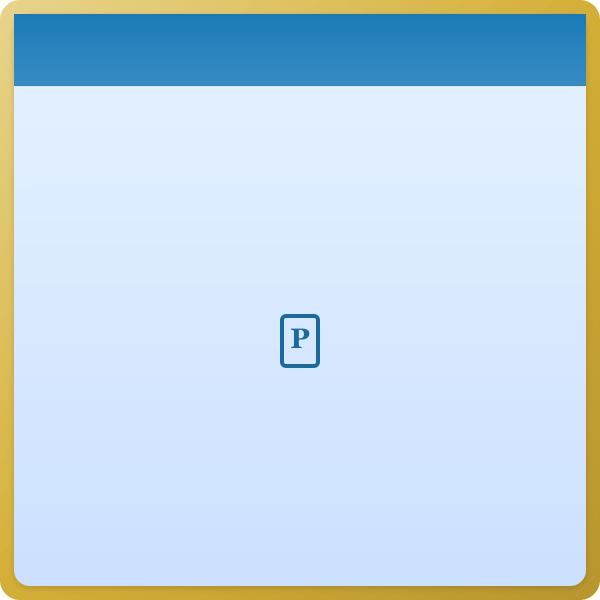
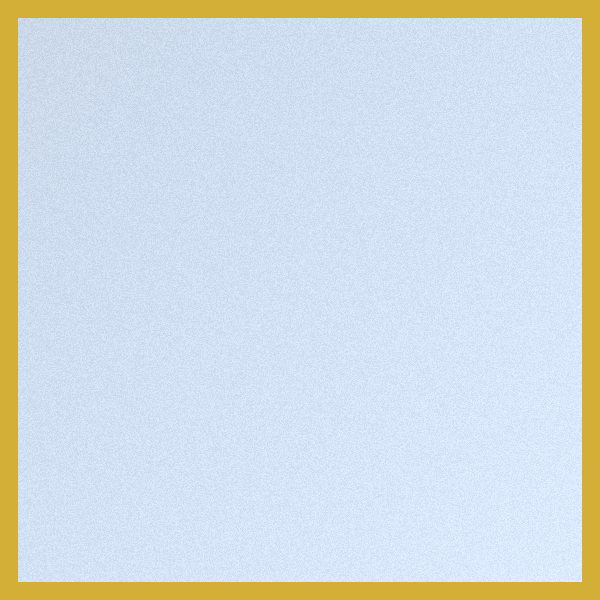
Cards from full photos: local pics/cards, download-images jpg, picsum, photo-like texture fallback

Changed region(s): [[0.0, 0.0, 1.0, 1.0], [0.45, 0.51, 0.54, 0.63]]

diff --git a/scripts/generate-cards.js b/scripts/generate-cards.js
@@ -1,8 +1,11 @@
 /**
- * Генерация красивых карточек клеток (градиенты, иконки, единый стиль).
- * Заменяет PNG в public/images/cards/.
+ * Генерация карточек из полноценных фото.
+ * 1) Локальные фото из pics/cards/{name}.jpg (или .png) — если есть.
+ * 2) Скачивание с picsum.photos по seed — если есть сеть.
+ * 3) Fallback: фото-подобная текстура (градиент + шум).
+ * Итог: каждая карточка — изображение 600×600 с золотой рамкой.
  * Запуск: node scripts/generate-cards.js
- * Требует: npm install sharp
+ * Требует: Node 18+ (fetch), npm install sharp
  */
 
 import sharp from 'sharp';
@@ -13,95 +16,142 @@ import { fileURLToPath } from 'url';
 const __dirname = path.dirname(fileURLToPath(import.meta.url));
 const ROOT = path.join(__dirname, '..');
 const CARDS = path.join(ROOT, 'public', 'images', 'cards');
+const PICS_CARDS = path.join(ROOT, 'pics', 'cards');
 
 const W = 600;
 const H = 600;
-const R = 16;
-const BORDER = 14;
-const STRIPE_H = 72;
+const BORDER = 18;
+const INNER = W - 2 * BORDER;
+const RADIUS = 12;
 
-/** Цвета: stripe (верх), fill1 (фон сверху), fill2 (фон снизу), icon (иконка) — для градиентов и контраста */
-const CARD_CONFIG = [
-  { name: 'go', stripe: '#1a6b6b', fill1: '#2d9d9d', fill2: '#1e7a7a', icon: '#fff' },
-  { name: 'street', stripe: '#8b6914', fill1: '#f8f0e4', fill2: '#ede0d0', icon: '#5c4a32' },
-  { name: 'chance', stripe: '#c44a3a', fill1: '#ffe4c0', fill2: '#ffd4a0', icon: '#8b3a2a' },
-  { name: 'community_chest', stripe: '#1a6bb3', fill1: '#e8f2ff', fill2: '#d0e4ff', icon: '#1a5a9e' },
-  { name: 'tax', stripe: '#b8860b', fill1: '#fffde8', fill2: '#fff4c4', icon: '#7a5a08' },
-  { name: 'railroad', stripe: '#2d2d2d', fill1: '#f5f4f2', fill2: '#e8e6e2', icon: '#333' },
-  { name: 'jail', stripe: '#5c3d1e', fill1: '#e8ddd0', fill2: '#d8c8b8', icon: '#3d2817' },
-  { name: 'utility', stripe: '#c9a82a', fill1: '#fffce8', fill2: '#fff4c4', icon: '#8b7312' },
-  { name: 'free_parking', stripe: '#1a7ab8', fill1: '#e6f2ff', fill2: '#cce0ff', icon: '#1a6aa0' },
-  { name: 'go_to_jail', stripe: '#a01830', fill1: '#ffe8e8', fill2: '#ffd0d0', icon: '#801020' },
-  { name: 'default', stripe: '#666', fill1: '#f0f0f0', fill2: '#e0e0e0', icon: '#555' },
+const CARD_NAMES = [
+  'go',
+  'street',
+  'chance',
+  'community_chest',
+  'tax',
+  'railroad',
+  'jail',
+  'utility',
+  'free_parking',
+  'go_to_jail',
+  'default',
 ];
 
-/** Простые иконки SVG (центр карточки): путь или группа, viewBox 0 0 100 100, масштаб под ~160px */
-const ICONS = {
-  go: '<circle cx="50" cy="50" r="42" fill="none" stroke="currentColor" stroke-width="6"/><text x="50" y="62" font-family="Georgia,serif" font-size="36" font-weight="bold" fill="currentColor" text-anchor="middle">GO</text>',
-  street: '<path d="M50 25 L75 55 L75 85 L25 85 L25 55 Z" fill="none" stroke="currentColor" stroke-width="5"/><rect x="42" y="55" width="16" height="30" fill="currentColor"/>',
-  chance: '<circle cx="50" cy="50" r="38" fill="none" stroke="currentColor" stroke-width="5"/><text x="50" y="68" font-family="Georgia,serif" font-size="48" font-weight="bold" fill="currentColor" text-anchor="middle">?</text>',
-  community_chest: '<rect x="20" y="45" width="60" height="40" rx="4" fill="none" stroke="currentColor" stroke-width="4"/><rect x="35" y="35" width="30" height="18" rx="2" fill="none" stroke="currentColor" stroke-width="3"/><line x1="35" y1="52" x2="65" y2="52" stroke="currentColor" stroke-width="2"/>',
-  tax: '<text x="50" y="68" font-family="Georgia,serif" font-size="42" font-weight="bold" fill="currentColor" text-anchor="middle">%</text><rect x="30" y="75" width="40" height="6" fill="currentColor"/>',
-  railroad: '<rect x="22" y="45" width="56" height="32" rx="4" fill="none" stroke="currentColor" stroke-width="4"/><circle cx="35" cy="72" r="8" fill="none" stroke="currentColor" stroke-width="3"/><circle cx="65" cy="72" r="8" fill="none" stroke="currentColor" stroke-width="3"/><rect x="35" y="38" width="30" height="14" fill="currentColor"/><polygon points="50,25 65,38 35,38" fill="currentColor"/>',
-  jail: '<rect x="25" y="35" width="50" height="45" rx="2" fill="none" stroke="currentColor" stroke-width="4"/><line x1="25" y1="48" x2="75" y2="48" stroke="currentColor" stroke-width="3"/><line x1="40" y1="35" x2="40" y2="80" stroke="currentColor" stroke-width="3"/><line x1="55" y1="35" x2="55" y2="80" stroke="currentColor" stroke-width="3"/><line x1="25" y1="62" x2="75" y2="62" stroke="currentColor" stroke-width="3"/>',
-  utility: '<path d="M55 20 L35 50 L50 50 L30 80 L55 48 L42 48 Z" fill="currentColor"/>',
-  free_parking: '<rect x="32" y="30" width="36" height="50" rx="4" fill="none" stroke="currentColor" stroke-width="4"/><text x="50" y="62" font-family="Georgia,serif" font-size="28" font-weight="bold" fill="currentColor" text-anchor="middle">P</text>',
-  go_to_jail: '<rect x="30" y="40" width="40" height="28" rx="3" fill="none" stroke="currentColor" stroke-width="3"/><circle cx="38" cy="54" r="5" fill="none" stroke="currentColor" stroke-width="2"/><circle cx="62" cy="54" r="5" fill="none" stroke="currentColor" stroke-width="2"/><path d="M30 52 L22 52 M70 52 L78 52" stroke="currentColor" stroke-width="2" stroke-linecap="round"/>',
-  default: '<rect x="30" y="30" width="40" height="40" rx="6" fill="none" stroke="currentColor" stroke-width="4"/>',
-};
+const PICSUM_BASE = 'https://picsum.photos/seed';
 
-function buildCardSvg(config) {
-  const { name, stripe, fill1, fill2, icon } = config;
-  const iconSvg = ICONS[name] || ICONS.default;
-  const innerW = W - 2 * BORDER;
-  const innerH = H - 2 * BORDER;
+async function fetchImage(url) {
+  const res = await fetch(url, {
+    redirect: 'follow',
+    headers: {
+      'User-Agent':
+        'Mozilla/5.0 (Windows NT 10.0; Win64; x64) AppleWebKit/537.36 (KHTML, like Gecko) Chrome/120.0.0.0 Safari/537.36',
+      Accept: 'image/*',
+    },
+  });
+  if (!res.ok) throw new Error(`${res.status}`);
+  return Buffer.from(await res.arrayBuffer());
+}
 
-  return `<svg xmlns="http://www.w3.org/2000/svg" width="${W}" height="${H}" viewBox="0 0 ${W} ${H}">
-  <defs>
-    <linearGradient id="bg-${name}" x1="0%" y1="0%" x2="0%" y2="100%">
-      <stop offset="0%" style="stop-color:${fill1}"/>
-      <stop offset="100%" style="stop-color:${fill2}"/>
-    </linearGradient>
-    <linearGradient id="stripe-${name}" x1="0%" y1="0%" x2="0%" y2="100%">
-      <stop offset="0%" style="stop-color:${stripe};stop-opacity:1"/>
-      <stop offset="100%" style="stop-color:${stripe};stop-opacity:0.85"/>
-    </linearGradient>
-    <filter id="shadow-${name}" x="-10%" y="-10%" width="120%" height="120%">
-      <feDropShadow dx="0" dy="2" stdDeviation="3" flood-opacity="0.15"/>
-    </filter>
-    <linearGradient id="gold-${name}" x1="0%" y1="0%" x2="100%" y2="100%">
-      <stop offset="0%" style="stop-color:#e8d48c"/>
-      <stop offset="50%" style="stop-color:#d4af37"/>
-      <stop offset="100%" style="stop-color:#b8962e"/>
-    </linearGradient>
-  </defs>
-  <!-- Рамка (золотая) -->
-  <rect x="0" y="0" width="${W}" height="${H}" rx="${R + 4}" fill="url(#gold-${name})"/>
-  <!-- Внутренняя карточка с тенью -->
-  <rect x="${BORDER}" y="${BORDER}" width="${innerW}" height="${innerH}" rx="${R}" fill="url(#bg-${name})" filter="url(#shadow-${name})"/>
-  <!-- Верхняя полоска -->
-  <rect x="${BORDER}" y="${BORDER}" width="${innerW}" height="${STRIPE_H}" rx="${R} ${R} 0 0" fill="url(#stripe-${name})"/>
-  <!-- Тонкая линия под полоской -->
-  <line x1="${BORDER}" y1="${BORDER + STRIPE_H}" x2="${W - BORDER}" y2="${BORDER + STRIPE_H}" stroke="rgba(0,0,0,0.08)" stroke-width="1"/>
-  <!-- Иконка по центру -->
-  <g transform="translate(${BORDER + innerW / 2 - 50}, ${BORDER + STRIPE_H + (innerH - STRIPE_H) / 2 - 50})" style="color:${icon}">
-    ${iconSvg}
-  </g>
-</svg>`;
+/** Фото-подобная текстура: градиент + шум (raw pixel buffer) */
+async function createPhotoLikeTexture(name) {
+  const colors = {
+    go: [40, 120, 120],
+    street: [245, 230, 210],
+    chance: [250, 200, 140],
+    community_chest: [220, 235, 250],
+    tax: [255, 245, 210],
+    railroad: [235, 232, 228],
+    jail: [210, 188, 165],
+    utility: [255, 250, 220],
+    free_parking: [220, 235, 255],
+    go_to_jail: [255, 228, 228],
+    default: [240, 240, 238],
+  };
+  const [r0, g0, b0] = colors[name] || colors.default;
+  const pixels = Buffer.alloc(INNER * INNER * 4);
+  for (let y = 0; y < INNER; y++) {
+    for (let x = 0; x < INNER; x++) {
+      const t = (y / INNER + x / INNER) / 2;
+      const noise = (Math.random() - 0.5) * 18;
+      const r = Math.min(255, Math.max(0, Math.round(r0 * (0.92 + t * 0.08) + noise)));
+      const g = Math.min(255, Math.max(0, Math.round(g0 * (0.92 + t * 0.08) + noise)));
+      const b = Math.min(255, Math.max(0, Math.round(b0 * (0.92 + t * 0.08) + noise)));
+      const i = (y * INNER + x) * 4;
+      pixels[i] = r;
+      pixels[i + 1] = g;
+      pixels[i + 2] = b;
+      pixels[i + 3] = 255;
+    }
+  }
+  return await sharp(pixels, {
+    raw: { width: INNER, height: INNER, channels: 4 },
+  })
+    .png()
+    .toBuffer();
+}
+
+async function getPhotoForCard(name) {
+  const dirs = [
+    { dir: PICS_CARDS, ext: ['.jpg', '.jpeg', '.png', '.webp'] },
+    { dir: CARDS, ext: ['.jpg', '.jpeg'] },
+  ];
+  for (const { dir, ext } of dirs) {
+    if (!fs.existsSync(dir)) continue;
+    for (const e of ext) {
+      const p = path.join(dir, `${name}${e}`);
+      if (fs.existsSync(p)) {
+        return sharp(fs.readFileSync(p))
+          .resize(INNER, INNER, { fit: 'cover', position: 'center' })
+          .png()
+          .toBuffer();
+      }
+    }
+  }
+  try {
+    const seed = name.replace(/_/g, '');
+    const url = `${PICSUM_BASE}/${seed}/${INNER}/${INNER}`;
+    const buf = await fetchImage(url);
+    return await sharp(buf).resize(INNER, INNER, { fit: 'cover', position: 'center' }).png().toBuffer();
+  } catch (_) {
+    return await createPhotoLikeTexture(name);
+  }
+}
+
+async function buildCard(name) {
+  const photo = await getPhotoForCard(name);
+
+  const goldBorder = await sharp({
+    create: {
+      width: W,
+      height: H,
+      channels: 4,
+      background: { r: 212, g: 175, b: 55, alpha: 1 },
+    },
+  })
+    .png()
+    .toBuffer();
+
+  return await sharp(goldBorder)
+    .composite([{ input: photo, top: BORDER, left: BORDER }])
+    .png()
+    .toBuffer();
 }
 
 async function main() {
   if (!fs.existsSync(CARDS)) fs.mkdirSync(CARDS, { recursive: true });
 
-  console.log('Generating beautiful card images...');
-  for (const config of CARD_CONFIG) {
-    const svg = buildCardSvg(config);
-    const buf = await sharp(Buffer.from(svg))
-      .png({ quality: 100 })
-      .toBuffer();
-    const outPath = path.join(CARDS, `${config.name}.png`);
-    fs.writeFileSync(outPath, buf);
-    console.log('OK', path.relative(ROOT, outPath));
+  console.log('Building cards (photos + gold frame)...');
+  console.log('  Use pics/cards/{name}.jpg for your own photos, or run with network for picsum.photos.');
+  for (const name of CARD_NAMES) {
+    try {
+      const buf = await buildCard(name);
+      const outPath = path.join(CARDS, `${name}.png`);
+      fs.writeFileSync(outPath, buf);
+      console.log('OK', path.relative(ROOT, outPath));
+    } catch (e) {
+      console.error('FAIL', name, e.message);
+    }
   }
   console.log('Done.');
 }

diff --git a/public/images/cards/README.md b/public/images/cards/README.md
@@ -1,11 +1,19 @@
 # Карточки клеток
 
-Изображения по типу клетки: `go.png`, `street.png`, `chance.png`, `community_chest.svg`, `tax.png`, `railroad.png`, `jail.png`, `utility.png`, `free_parking.png`, `go_to_jail.png`, `default.png`.
+Используются PNG по типу: `go.png`, `street.png`, `chance.png`, `community_chest.png`, `tax.png`, `railroad.png`, `jail.png`, `utility.png`, `free_parking.png`, `go_to_jail.png`, `default.png`. Клиент подставляет `/images/cards/{type}.png` (для темы luxury — `{type}-luxury.jpg` для street, chance, community_chest).
 
-Клиент использует `/images/cards/{type}.png` (для темы luxury — `{type}-luxury.jpg` для street, chance, community_chest).
+**Полноценные фото-картинки:**
 
-**Единая партия карточек:** из корня проекта выполните:
-```bash
-npm run generate-cards
-```
-Скрипт `scripts/generate-cards.js` перегенерирует все PNG в одном стиле (золотая рамка, цветная полоска сверху, фон по типу).
+1. Скачать фото из интернета и добавить рамку:
+   ```bash
+   npm run download-images
+   npm run generate-cards
+   ```
+   `download-images` сохраняет фото в `cards/*.jpg`, `generate-cards` добавляет золотую рамку и создаёт `*.png`.
+
+2. Свои фото: положите файлы `go.jpg`, `street.jpg`, … в папку `pics/cards/` и выполните:
+   ```bash
+   npm run generate-cards
+   ```
+
+3. Без своих файлов и без сети скрипт использует фото-подобную текстуру (градиент + шум). С сетью пробует picsum.photos.
